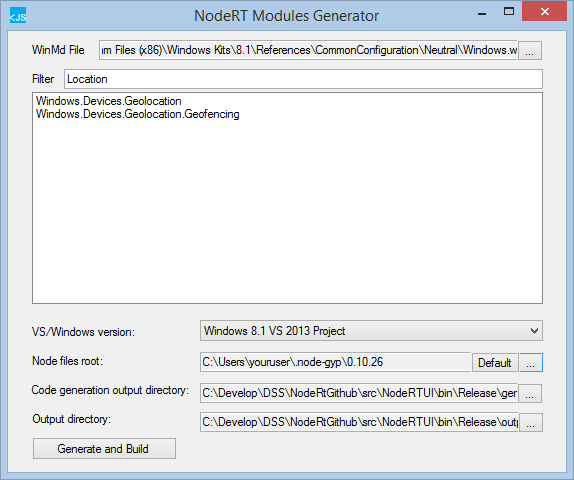
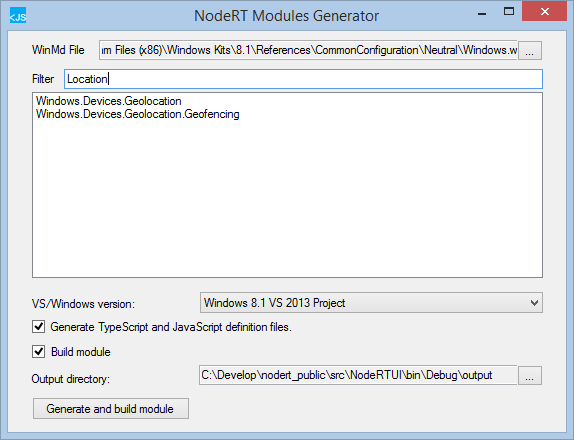
updated doc image

diff --git a/src/NodeRTUI/MainForm.Designer.cs b/src/NodeRTUI/MainForm.Designer.cs
@@ -183,7 +183,7 @@ namespace NodeRTUI
             // btnOutputDirBrowse
             // 
             this.btnOutputDirBrowse.Anchor = ((System.Windows.Forms.AnchorStyles)((System.Windows.Forms.AnchorStyles.Bottom | System.Windows.Forms.AnchorStyles.Right)));
-            this.btnOutputDirBrowse.Location = new System.Drawing.Point(509, 341);
+            this.btnOutputDirBrowse.Location = new System.Drawing.Point(509, 334);
             this.btnOutputDirBrowse.Name = "btnOutputDirBrowse";
             this.btnOutputDirBrowse.Size = new System.Drawing.Size(26, 21);
             this.btnOutputDirBrowse.TabIndex = 31;
@@ -195,7 +195,7 @@ namespace NodeRTUI
             // 
             this.txtOutputDirectory.Anchor = ((System.Windows.Forms.AnchorStyles)(((System.Windows.Forms.AnchorStyles.Bottom | System.Windows.Forms.AnchorStyles.Left) 
             | System.Windows.Forms.AnchorStyles.Right)));
-            this.txtOutputDirectory.Location = new System.Drawing.Point(191, 341);
+            this.txtOutputDirectory.Location = new System.Drawing.Point(191, 334);
             this.txtOutputDirectory.Name = "txtOutputDirectory";
             this.txtOutputDirectory.ReadOnly = true;
             this.txtOutputDirectory.Size = new System.Drawing.Size(344, 20);
